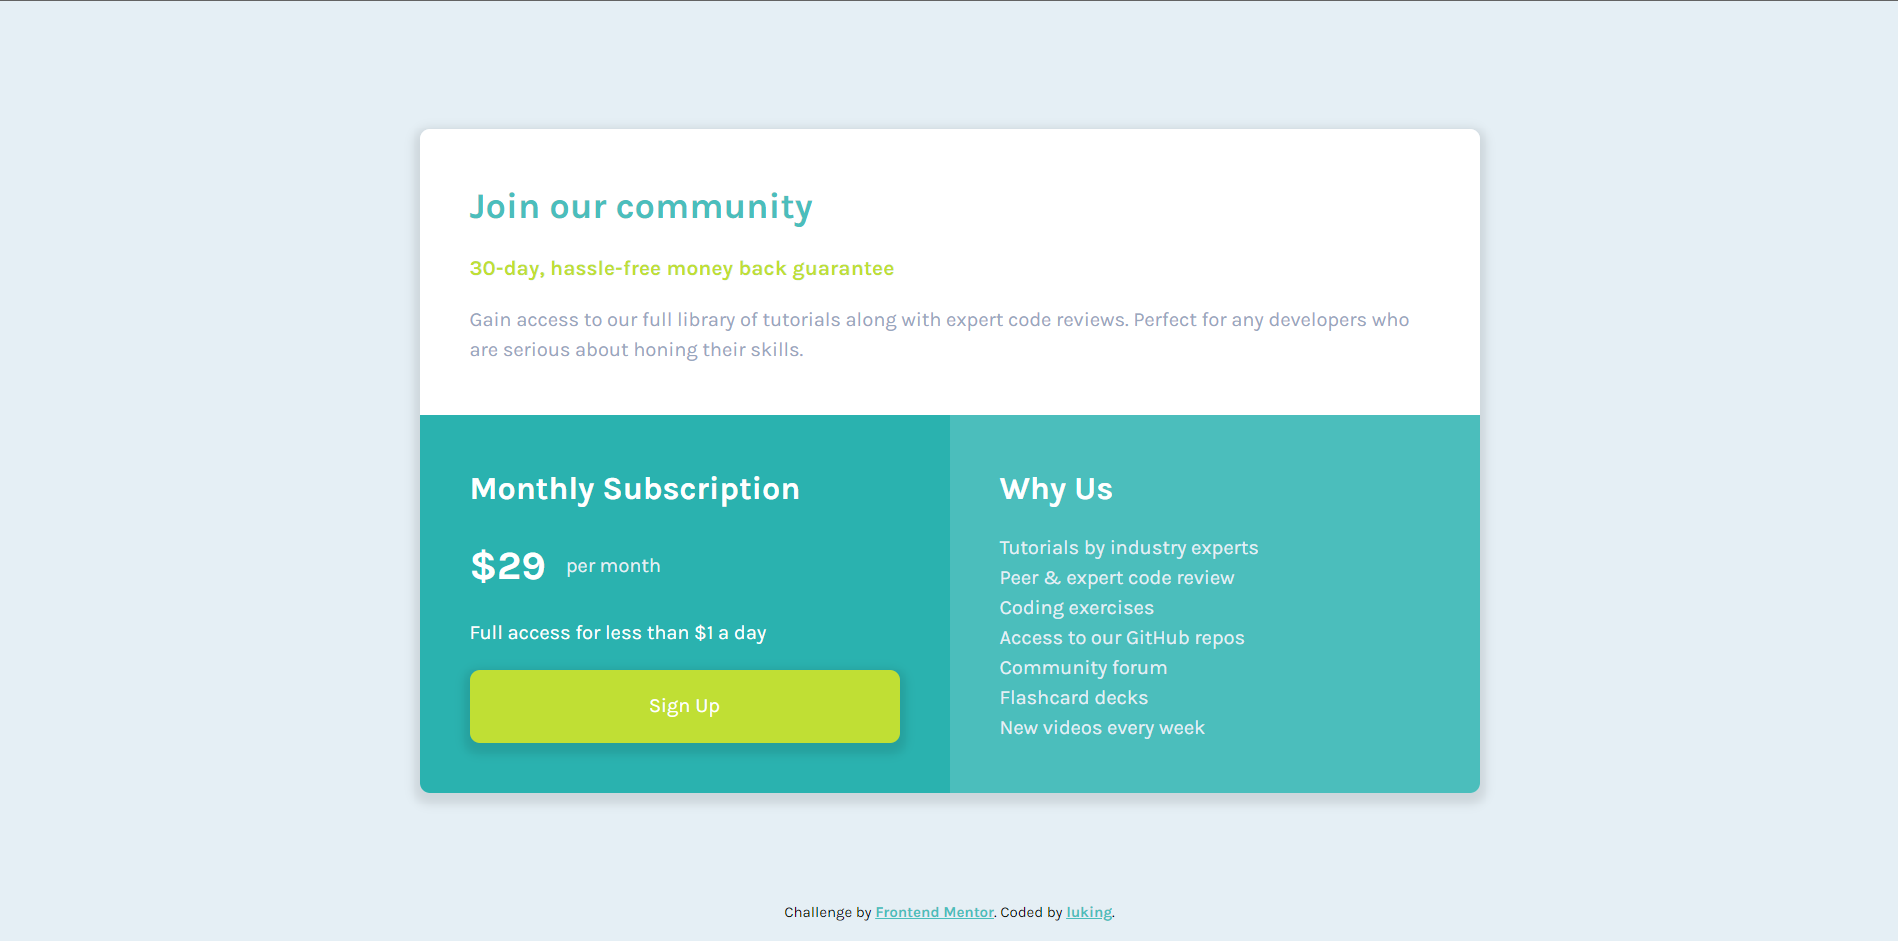
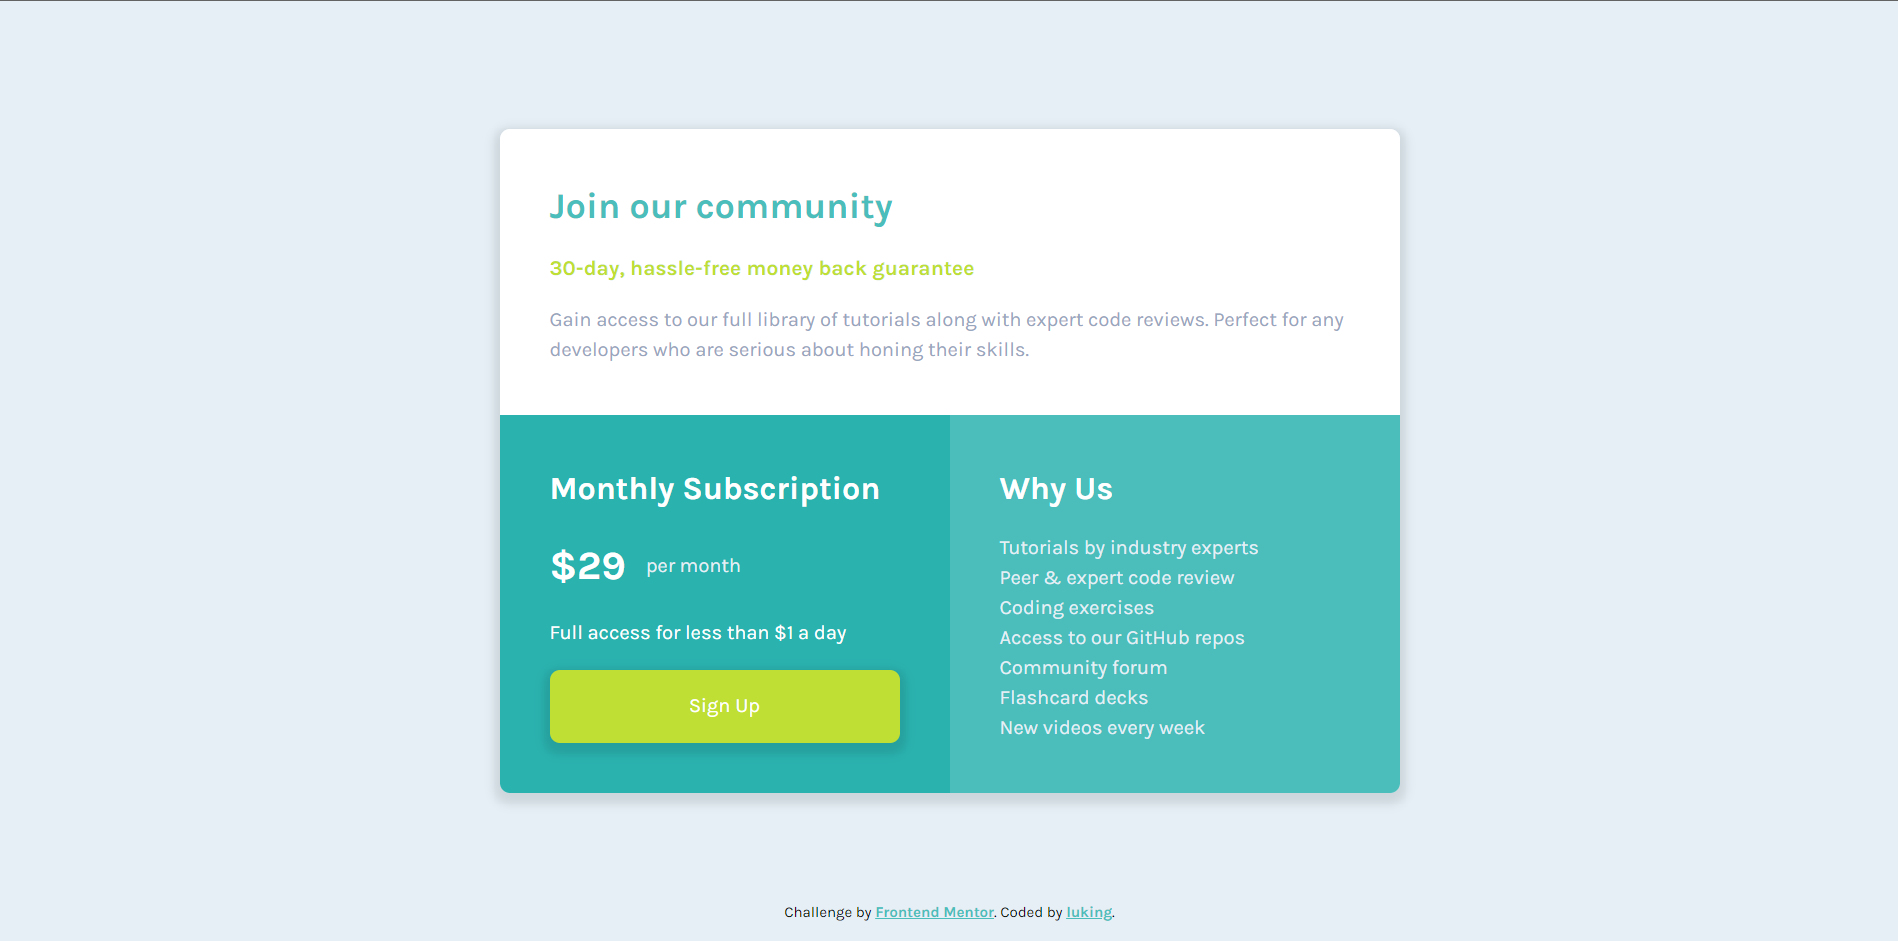
update css

Changed region(s): [[0.2176, 0.1233, 0.7771, 0.8629], [0.3419, 0.7396, 0.4041, 0.7705]]

diff --git a/single-price-grid-component/style.css b/single-price-grid-component/style.css
@@ -117,7 +117,7 @@ button {
   --part-padding: 1.5rem;
   --part-spacing: 1rem;
 
-  max-width: 53rem;
+  max-width: 45rem;
   box-shadow: var(--shadow);
   border-radius: var(--radius);
   overflow: hidden;
